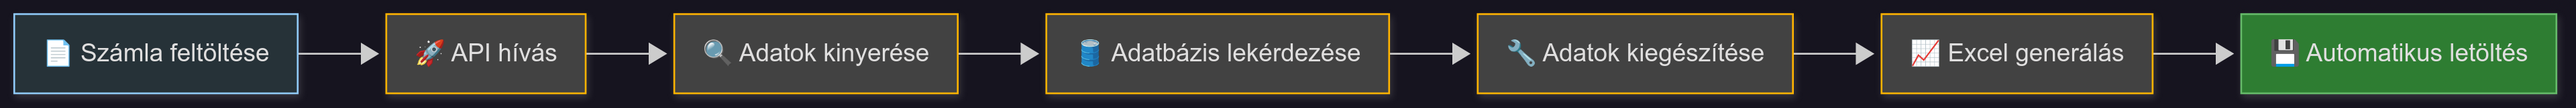
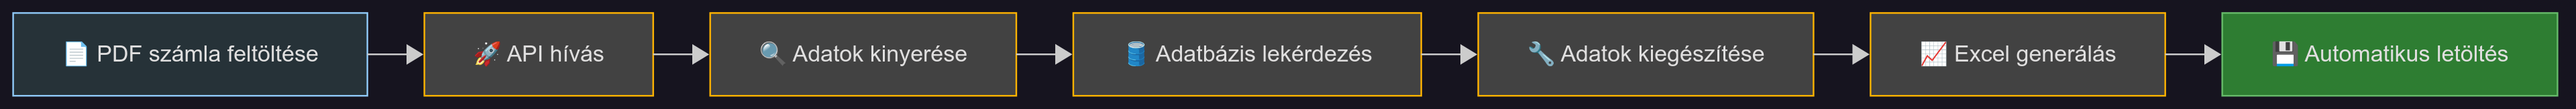
replace flowchart images in showcase.md

Changed region(s): [[0.0, 0.0926, 1.0, 0.8951]]

diff --git a/SHOWCASE.md b/SHOWCASE.md
@@ -30,4 +30,4 @@
 
 ### 4. Tömeges feldolgozás, küldés és törlés
 
-![Folyamatábra 2](flow-4_2.png)
+![Folyamatábra 2](flow-4.png)
